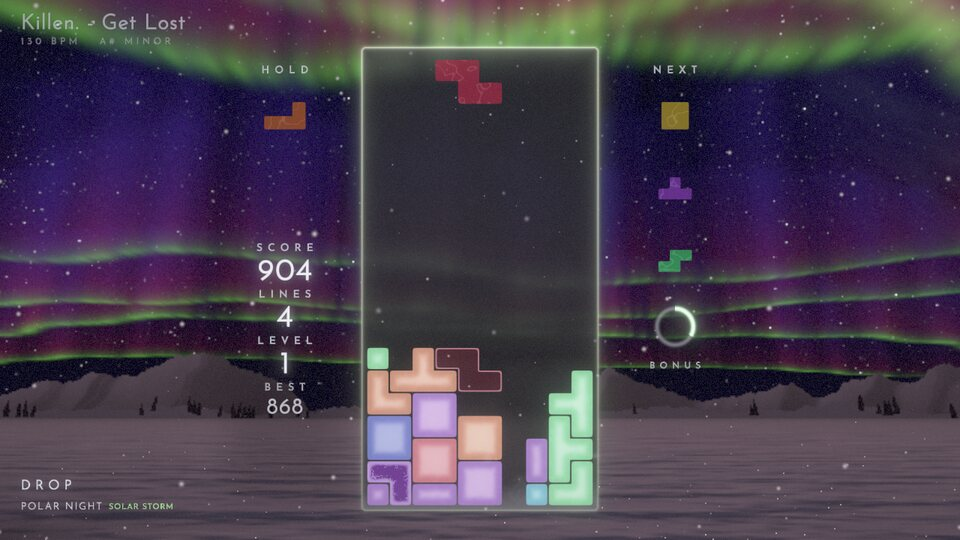
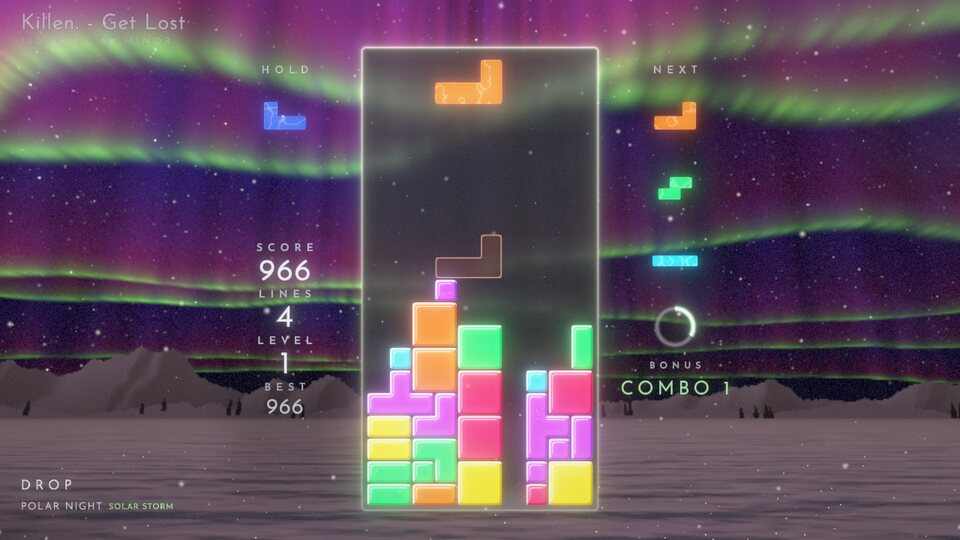
POLAR NIGHT: simpler colored ice cubes: water freezes at once on landing, clean bevelled ice, a wisp of vapor; no slow freeze, no fusing
Claude-Session: https://claude.ai/code/session_01DBPtRFs6M8Q4o53Qj6BCRE

diff --git a/src/universes/polar/shaders.hpp b/src/universes/polar/shaders.hpp
@@ -468,44 +468,46 @@ float fern(vec2 w) {
     return pow(f, 4.0);
 }
 
-// An ice cube freezing. The falling piece is clear colored water: transparent, saturated. Once it lands it freezes
-// over FREEZE s like a cube in a freezer: frost creeps in from its outside faces (a feathery front of white crystals
-// moving inward, a frosted rim thickening behind it), the body clouds over to a milky core, the color going pastel.
-// Old ice: a matte frosted cube, whitish but clearly tinted. No outline, no relief, no gloss.
-// wl: the point in the piece's own frame (board units; its frost travels with it), d: depth inside the body (cell
-// units), pc: the piece's color, k: 0 water .. 1 frozen through, seed: the piece.
+// A colored ice cube. The falling piece is vivid colored water; it freezes the moment it lands (k: 0 water .. 1 ice,
+// over a fraction of a second, a flash of frost as it sets). The ice: clear saturated color, lighter toward the faces
+// lit from the top left, a bright rim along its edges, a soft gloss and a few frozen cracks in it.
+// wl: the point in the piece's own frame (board units), d: depth inside the body (cell units), pc: the piece's color,
+// k: frozen, seed: the piece (0 while it falls).
 vec4 iceCube(vec2 wl, float d, vec3 pc, float k, float seed) {
     vec3 bg = behind(wl);
-    vec2 wv = wl + seed * 3.7;
     float lum = dot(pc, vec3(0.2126, 0.7152, 0.0722));
-    // water: clear and saturated, the night through it (a faint caustic drifting while it falls, still once it has
-    // landed: a landed piece always has a seed > 0)
+    vec3 vivid = clamp(mix(vec3(lum), pc, 1.3), 0.0, 1.0);
+    // which way the faces look (the depth's gradient): the light comes from the top left
+    vec2 gd = vec2(dFdx(d), dFdy(d));
+    vec2 nrm = gd / max(length(gd), 1e-5);
+    float lit = dot(-nrm, normalize(vec2(-0.6, 0.8))) * 0.5 + 0.5;
+    float rim = exp(-d / 0.02);
+    float bevel = 1.0 - smoothstep(0.07, 0.11, d);
+
+    // water: vivid and wet, the night through it, a caustic drifting while it falls
     float ca = texture(uNoise, wl * 0.07 + vec2(uTime * 0.03, uTime * 0.05)).r;
     float cb = texture(uNoise, wl * 0.09 - vec2(uTime * 0.04, -uTime * 0.02)).b;
     float caus = smoothstep(0.9, 1.0, 1.0 - abs(ca - cb) * 3.0) * (seed > 0.0 ? 0.0 : 1.0);
-    float glow = 0.75 + 0.25 * smoothstep(0.0, 0.45, d);
-    vec3 vivid = clamp(mix(vec3(lum), pc, 1.3), 0.0, 1.0);
-    float wet = exp(-d / 0.035);
-    vec3 water = bg * vivid * 0.5 + vivid * 1.05 * glow + mix(vivid, vec3(1.0), 0.5) * (caus * 0.25 + 0.06 + wet * 0.45);
-    // the frost: needles of crystals reaching in from the faces, ahead of a frosted band that thickens inward
-    float fe = fern(wv * 0.55), fe2 = fern(wv * 1.2 + 1.7);
-    float n = texture(uNoise, wv * 0.35).r, n2 = texture(uNoise, wv * 0.9 + 0.4).b;
-    float grain = texture(uNoise, wv * 2.7 + 0.2).a;
-    float front = k >= 1.0 ? 9.0 : 0.02 + 0.6 * pow(k, 0.85);
-    float reach = d - (n - 0.5) * 0.12;
-    float band = 1.0 - smoothstep(front - 0.12, front + 0.02, reach + fe * 0.06);
-    float needles = (1.0 - smoothstep(front - 0.02, front + 0.16, reach)) * smoothstep(0.35, 0.8, max(fe, fe2 * 0.8));
-    float frosted = max(band, needles * 0.9) * step(0.001, k);
-    // the cloudy core: the body clouds over to milk as it freezes, densest in the middle
-    float milk = smoothstep(0.2, 0.9, k) * (0.5 + 0.5 * smoothstep(0.05, 0.4, d));
-    vec3 pastel = mix(pc, vec3(lum) * 0.5 + 0.5, 0.12);
-    float core = smoothstep(0.08, 0.5, d + (n - 0.5) * 0.15);
-    vec3 cloudy = mix(water, mix(pastel * (0.8 + 0.1 * n), mix(pastel, vec3(1.0), 0.15) * 0.95, core), milk);
-    // frosted surface: whitish, tinted, a crystalline grain
-    vec3 frost = pastel * (0.8 + 0.1 * n2 + 0.08 * fe) + vec3(0.1) * smoothstep(0.55, 0.85, grain);
-    vec3 col = mix(cloudy, frost, frosted * mix(0.95, 0.55 * (1.0 - core * 0.6), smoothstep(0.75, 1.0, k)));
-    float a = mix(0.9, 0.97, max(frosted, milk));
-    return vec4(col, a);
+    vec3 water = bg * vivid * 0.5 + vivid * 0.95 + mix(vivid, vec3(1.0), 0.5) * (caus * 0.25 + rim * 0.4);
+
+    // ice: a saturated body, the bevelled faces lit from the top left (light) or turned away (deep), a bright edge
+    // where the light catches it
+    float core = smoothstep(0.1, 0.45, d);
+    vec3 ice = vivid * (0.95 - 0.12 * core) + bg * vivid * 0.2 * core;
+    vec3 face = mix(vivid * 0.55, mix(vivid, vec3(1.0), 0.45), smoothstep(0.25, 0.75, lit));
+    ice = mix(ice, face, bevel);
+    ice += vec3(1.0) * rim * smoothstep(0.45, 0.9, lit) * 0.6;
+    // a highlight line just inside the lit edges, and a few cracks frozen inside (the ice's facets)
+    float hl = exp(-pow((d - 0.16) / 0.018, 2.0)) * smoothstep(0.6, 0.95, lit);
+    ice += vec3(1.0) * hl * 0.55;
+    vec2 cq = wl + seed * 7.3;
+    float f = texture(uNoise, cq * 0.19).g;
+    float crack = (1.0 - smoothstep(0.0, 0.02, abs(f - 0.5))) * smoothstep(0.16, 0.3, d);
+    ice = mix(ice, mix(vivid, vec3(1.0), 0.6), crack * 0.55);
+    vec3 col = mix(water, ice, k);
+    // the frost flash as it sets
+    col = mix(col, mix(vivid, vec3(1.0), 0.8), 4.0 * k * (1.0 - k) * 0.6);
+    return vec4(col, mix(0.9, 0.96, k));
 }
 // The contact of a cleared or topped-out cell, packed above its neighbour mask (polar.cpp: packContact).
 vec2 unpackContact(float m) {
@@ -541,33 +543,12 @@ void main() {
         float fr = 0.0, seed = 0.0;
         vec2 wl = vWorld;
         if (kind == 0) {
-            // freezing, slowly (FREEZE s, polar.cpp FREEZE_SECONDS): -1 frozen long since
-            const float FREEZE = 7.0;
+            // freezing: the moment it lands (polar.cpp FREEZE_SECONDS, the vapor, lasts longer); -1 frozen long since
             seed = v3.x;
             wl = vWorld - (v0.xy + v3.yz);
-            fr = age >= 0.0 ? clamp(age / FREEZE, 0.0, 1.0) : 1.0;
-        }
-        // fused faces (kind 0): the ice grows into its frozen neighbours, the seam closing under a bridge of frost
-        float fuse = 0.0;
-        if (kind == 0) {
-            int fb = int(v3.w + 0.5);
-            vec2 q = p / s;
-            vec4 fl = vec4(float(fb & 15), float((fb >> 4) & 15), float((fb >> 8) & 15), float((fb >> 12) & 15)) / 15.0;
-            vec4 dist = vec4(q.x + 0.5, 0.5 - q.x, 0.5 - q.y, q.y + 0.5);
-            vec4 w = fl * exp(-dist / 0.12);
-            fuse = max(max(w.x, w.y), max(w.z, w.w));
-            int fm = mask | (fl.x > 0.0 ? 1 : 0) | (fl.y > 0.0 ? 2 : 0) | (fl.z > 0.0 ? 4 : 0) | (fl.w > 0.0 ? 8 : 0);
-            // where two joined faces meet, fill the corner too (no pinhole where four cells meet)
-            if ((fm & 5) == 5) fm |= 16;
-            if ((fm & 6) == 6) fm |= 32;
-            if ((fm & 9) == 9) fm |= 64;
-            if ((fm & 10) == 10) fm |= 128;
-            float d2 = iceDepth(q, fm);
-            d = mix(d, d2, fuse * 0.85);
-            cov = 1.0 - smoothstep(-px * 0.7, px * 0.7, (SEAM - d) * s);
+            fr = age >= 0.0 ? smoothstep(0.0, 0.25, age) : 1.0;
         }
         vec4 ic = iceCube(wl, max(d - SEAM, 0.0), pc, fr, seed);
-        ic.rgb = mix(ic.rgb, mix(pc, vec3(1.0), 0.45) * 0.9, fuse * 0.35);
         // frozen over (game over): snow white
         float n = texture(uNoise, vWorld * 0.11 + 0.37).r;
         vec3 col = mix(ic.rgb, uFrostCol * (0.9 + 0.15 * n) + uAurLight * 0.3, frost);

diff --git a/src/universes/polar/polar.cpp b/src/universes/polar/polar.cpp
@@ -65,7 +65,7 @@ constexpr float TAN_H = 0.4452f;                 // the world camera's half fiel
 constexpr float EYE = 1.7f;                      // standing in the snow
 constexpr float WELL_X = 5.2f, WELL_Y = 10.2f;   // the well's sheet of ice (half extents, board)
 constexpr int FLAKES = 320;
-constexpr float FREEZE_SECONDS = 7.f;            // a locked piece's water turning to ice (shaders.hpp: FREEZE)
+constexpr float FREEZE_SECONDS = 1.8f;           // a locked piece freezing at once, then steaming for a moment
 
 vec2 v2(float x, float y) { return vec2{x, y}; }
 vec2 operator+(vec2 a, vec2 b) { return {a.x + b.x, a.y + b.y}; }
@@ -713,11 +713,11 @@ void PolarUniverse::simulate(const Game& game, const MusicState& music, float dt
             if (age < 0.f) continue;
             if (y > Game::HIDDEN && game.cell(x, y - 1).type >= 0) continue;
             const float k = age / FREEZE_SECONDS;
-            const float rate = 1.3f * (1.f - k) * smoothstepf(0.f, 0.08f, k);
+            const float rate = 4.f * (1.f - k) * smoothstepf(0.f, 0.08f, k);
             if (rng_.uniform() > rate * wdt) continue;
             const vec3 p = layout::cellPos((float)x, y - game.rowOffset(y));
             powder(v2(p.x + rng_.range(-0.4f, 0.4f), p.y + 0.42f), v2(rng_.range(-0.06f, 0.06f), rng_.range(0.15f, 0.3f)),
-                   rng_.range(0.2f, 0.32f), rng_.range(1.8f, 2.6f), 0.14f + 0.12f * (1.f - k), 0.f, true);
+                   rng_.range(0.2f, 0.32f), rng_.range(1.8f, 2.6f), 0.22f + 0.18f * (1.f - k), 0.f, true);
         }
 
     // Effects age (slowed by the slow motion like the world).
@@ -816,22 +816,7 @@ void PolarUniverse::buildBoard(const Game& g) {
                     if (idAt(x + dx, y + dy) != id) return false;
                     return dy == 0 || std::fabs(g.rowOffset(y + dy) - g.rowOffset(y)) < 0.01f;
                 });
-            // fused faces: freezing next to another piece, the two bodies of ice slowly grow together (4 bits per
-            // side, left right up down: how far both have frozen)
-            const float kSelf = age < 0.f ? 1.f : saturate(age / FREEZE_SECONDS);
-            int fused = 0;
-            const int SX[4] = {-1, 1, 0, 0}, SY[4] = {0, 0, -1, 1};
-            for (int i = 0; i < 4; i++) {
-                const int nx = x + SX[i], ny = y + SY[i];
-                if (nx < 0 || nx >= Game::W || ny < Game::HIDDEN || ny >= Game::H) continue;
-                if (g.cell(nx, ny).type < 0 || (mask >> i & 1)) continue;
-                if (SY[i] != 0 && std::fabs(g.rowOffset(ny) - g.rowOffset(y)) > 0.01f) continue;
-                const float an = freezeAge(g, nx, ny);
-                const float kn = an < 0.f ? 1.f : saturate(an / FREEZE_SECONDS);
-                fused |= (int)(std::min(kSelf, kn) * 15.f + 0.5f) << (4 * i);
-            }
-            tile(p.x, p.y, 0.5f, 0.5f, cur_.piece[c.type], 1.f, 0, age, mask, 0.f, id >= 0 ? pieceSeed(id) : 0.f, cdx, cdy,
-                 (float)fused);
+            tile(p.x, p.y, 0.5f, 0.5f, cur_.piece[c.type], 1.f, 0, age, mask, 0.f, id >= 0 ? pieceSeed(id) : 0.f, cdx, cdy);
         }
     // Cleared cells turning to snow; a topped-out stack freezing white, then crumbling.
     for (const Dying& d : dying_) {

diff --git a/docs/universes.md b/docs/universes.md
@@ -68,7 +68,7 @@ Wet watercolor on cold-press paper. A landscape painted in a few loose, transpar
 
 ![POLAR NIGHT](universes/polar.jpg)
 
-A snowfield under the stars: snowy ranges and a dark treeline on the horizon, a deep starry sky (the Milky Way faint across it) and the aurora, ray-marched as curtains with a bright lower edge, fine rays and a diffuse top; each ribbon follows a group of frequency bands (the far, low one the bass, the nearer, higher ones the highs) and its light falls on the snow and the pieces. The well is a sheet of dark ice with a hairline rim; the pieces are ice cubes that visibly freeze: the falling piece (and the previews) is clear colored water, saturated, the night seen through it; a landed piece freezes over 7 s like a cube in a freezer, frost creeping in from its outside faces (needles of feathery crystals ahead of a frosted band thickening inward) while the body clouds over to a milky core and the color goes pastel, a slight wisp of cold vapor rising off its top while it sets; old ice is a matte frosted cube, whitish but clearly tinted, its core a little whiter. No outline, bevel, gloss or reflection streak: crisp only at the silhouette, so new, freezing and old pieces read apart at a glance. Each piece is one body of ice with no junction between its cells (two pieces never join, a thin seam stays between them; a stack inherited from another universe is grouped into bodies of at most four cells), its frost in its own frame so it travels with it. Eight nights (EMERALD, VIOLET VEIL, CRIMSON, ARCTIC TEAL, MOONLIT, BLUE HOUR, SOLAR STORM, ICE FOG with a 22° moon halo), each with its own seven ices, from the key, mode, brightness, dynamics and density (`--universe polar:crimson`). Calm is a still night (one faint ribbon low on the horizon, a few flakes), mid wakes several curtains folding with the tempo and rippling on the beat while the snow falls, peak fills the sky (curtains overhead, the camera looking up, surges of light running along them on the kicks, blowing snow over the drifts). A lock leaves a tiny sparkle where the piece touched down, then it freezes (above); a cleared row cracks (the cracks running from where the piece landed) and shatters into shards that tumble and fade in under half a second (a Tetris throws them further), a Tetris is an auroral substorm, slow motion freezes time (the snowflakes hang and glint, the aurora barely moves, the colors drain to silver, frost creeps in at the screen's edges), game over freezes the stack white from the bottom up, then it crumbles while blowing snow buries the field; it leaves and enters through a whiteout of blowing snow. The world is drawn at a reduced resolution (at most 540 lines). Its HUD font is Josefin Sans (SIL Open Font License, `src/universes/polar/OFL-JosefinSans.txt`).
+A snowfield under the stars: snowy ranges and a dark treeline on the horizon, a deep starry sky (the Milky Way faint across it) and the aurora, ray-marched as curtains with a bright lower edge, fine rays and a diffuse top; each ribbon follows a group of frequency bands (the far, low one the bass, the nearer, higher ones the highs) and its light falls on the snow and the pieces. The well is a sheet of dark ice with a hairline rim; the pieces are colored ice cubes: the falling piece (and the previews) is vivid colored water, the night seen through it, freezing the moment it lands (a flash of frost) into a clean cube of saturated colored ice, its bevelled faces light toward the top left and deep toward the bottom right, a bright edge and a highlight line where the light catches it, a few cracks frozen inside, and a short wisp of cold vapor rising off it. Each piece is one body of ice with no junction between its cells (two pieces never join, a thin seam stays between them; a stack inherited from another universe is grouped into bodies of at most four cells), its frost in its own frame so it travels with it. Eight nights (EMERALD, VIOLET VEIL, CRIMSON, ARCTIC TEAL, MOONLIT, BLUE HOUR, SOLAR STORM, ICE FOG with a 22° moon halo), each with its own seven ices, from the key, mode, brightness, dynamics and density (`--universe polar:crimson`). Calm is a still night (one faint ribbon low on the horizon, a few flakes), mid wakes several curtains folding with the tempo and rippling on the beat while the snow falls, peak fills the sky (curtains overhead, the camera looking up, surges of light running along them on the kicks, blowing snow over the drifts). A lock leaves a tiny sparkle where the piece touched down as it freezes (above); a cleared row cracks (the cracks running from where the piece landed) and shatters into shards that tumble and fade in under half a second (a Tetris throws them further), a Tetris is an auroral substorm, slow motion freezes time (the snowflakes hang and glint, the aurora barely moves, the colors drain to silver, frost creeps in at the screen's edges), game over freezes the stack white from the bottom up, then it crumbles while blowing snow buries the field; it leaves and enters through a whiteout of blowing snow. The world is drawn at a reduced resolution (at most 540 lines). Its HUD font is Josefin Sans (SIL Open Font License, `src/universes/polar/OFL-JosefinSans.txt`).
 
 ## RISOGRAPH
 
